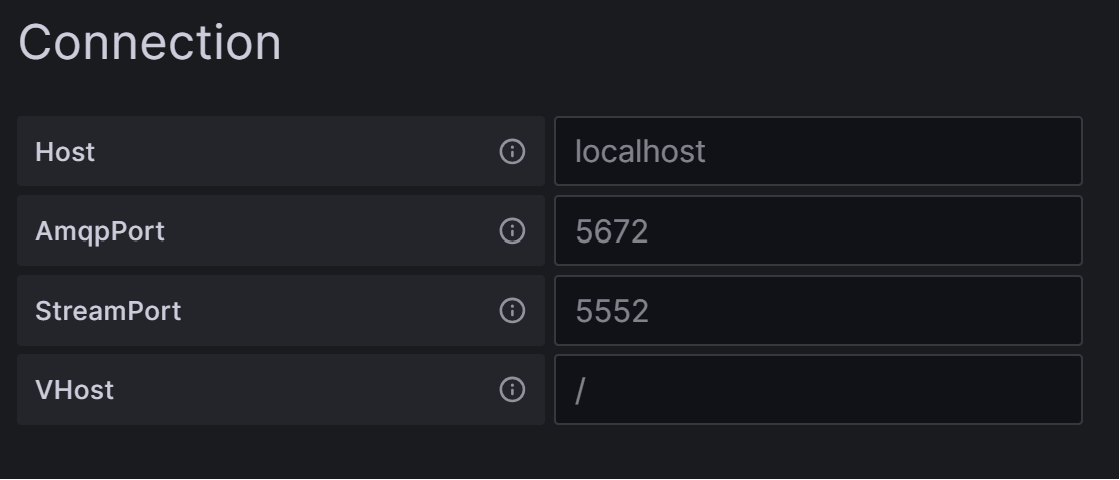
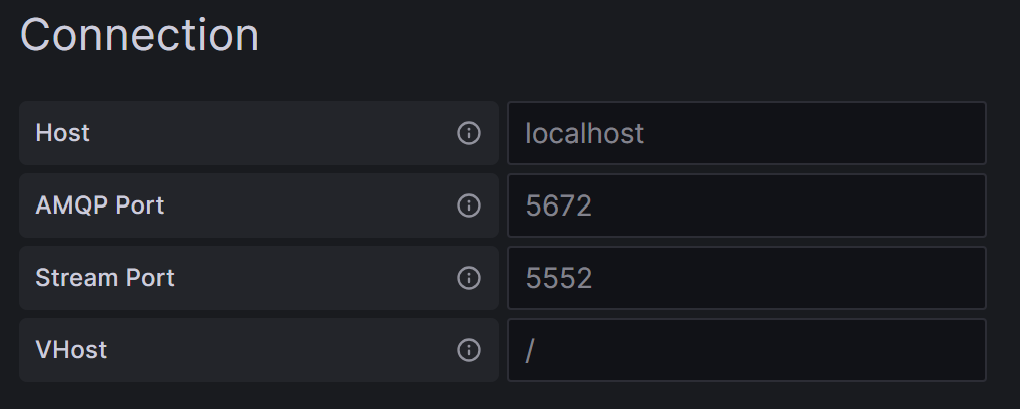
fixing typos in ConfigEditor.tsx and README.md

diff --git a/src/components/ConfigEditor.tsx b/src/components/ConfigEditor.tsx
@@ -145,7 +145,7 @@ export const ConfigEditor = (props: Props) => {
   return (
     <div className="gf-form-group">
       <FieldSet label="Connection">
-        <InlineField label="Host" labelWidth={LABEL_WIDTH} tooltip="Host of the RabbitMQ server">
+        <InlineField label="Host" labelWidth={LABEL_WIDTH} tooltip="Hostname (or the IP) of the RabbitMQ server">
           <Input
             onChange={(event) =>
               onOptionsChange({
@@ -157,7 +157,7 @@ export const ConfigEditor = (props: Props) => {
             width={INPUT_WIDTH}
           />
         </InlineField>
-        <InlineField label="AmqpPort" labelWidth={LABEL_WIDTH} tooltip="The AMQP port of the RabbitMQ server">
+        <InlineField label="AMQP Port" labelWidth={LABEL_WIDTH} tooltip="The AMQP port of the RabbitMQ server">
           <Input
             onChange={(event) =>
               onNumericInputChange(event.currentTarget.value, DEFAULT_AMQP_PORT, (value) =>
@@ -171,7 +171,7 @@ export const ConfigEditor = (props: Props) => {
             width={INPUT_WIDTH}
           />
         </InlineField>
-        <InlineField label="StreamPort" labelWidth={LABEL_WIDTH} tooltip="The stream port of the RabbitMQ server">
+        <InlineField label="Stream Port" labelWidth={LABEL_WIDTH} tooltip="The stream port of the RabbitMQ server">
           <Input
             onChange={(event) =>
               onNumericInputChange(event.currentTarget.value, DEFAULT_STREAM_PORT, (value) =>
@@ -185,7 +185,7 @@ export const ConfigEditor = (props: Props) => {
             width={INPUT_WIDTH}
           />
         </InlineField>
-        <InlineField label="VHost" labelWidth={LABEL_WIDTH} tooltip="The VHost the RabbitMQ server">
+        <InlineField label="VHost" labelWidth={LABEL_WIDTH} tooltip="The virtual host the RabbitMQ server">
           <Input
             onChange={(event) =>
               onOptionsChange({
@@ -199,7 +199,7 @@ export const ConfigEditor = (props: Props) => {
         </InlineField>
       </FieldSet>
       <FieldSet label="Authentication">
-        <InlineField label="TlsConnection" labelWidth={LABEL_WIDTH} tooltip="Should use TLS to connect to the RabbitMQ server">
+        <InlineField label="TLS Connection" labelWidth={LABEL_WIDTH} tooltip="Should use TLS to connect to the RabbitMQ server">
           <InlineSwitch
             onChange={(event) =>
               onOptionsChange({
@@ -271,7 +271,7 @@ export const ConfigEditor = (props: Props) => {
             width={SWITCH_WIDTH}
           />
         </InlineField>
-        <InlineField label="Max Age (in nano-seconds)" labelWidth={LABEL_WIDTH} tooltip="The max age of messages in the stream in nano-seconds (set to 0 to disable the max-age limit)">
+        <InlineField label="Max Age" labelWidth={LABEL_WIDTH} tooltip="The max age of messages in the stream in nano-seconds (set to 0 to disable the max-age limit)">
           <Input
             onChange={(event) =>
               onNumericInputChange(event.currentTarget.value, DEFAULT_STREAM_MAX_AGE, (value) =>
@@ -313,7 +313,7 @@ export const ConfigEditor = (props: Props) => {
             width={INPUT_WIDTH}
           />
         </InlineField>
-        <InlineField label="CRC" labelWidth={LABEL_WIDTH} tooltip="When crc control is disabed, the perfomance is increased">
+        <InlineField label="CRC" labelWidth={LABEL_WIDTH} tooltip="When CRC control is disabled, the perfomance is increased">
           <InlineSwitch
             onChange={(event) =>
               setStreamOptions({

diff --git a/src/README.md b/src/README.md
@@ -15,8 +15,8 @@ If you are not fimiliar with RabbitMQ Stream Plugin, here are some good resource
 ## Getting Started
 ### Reqirements
 
-- RabbitMQ v3.12.10+ with stream plugin enabled (should work on RabbitMQ v3.9+ but never was tested)
-- Grafana v9.4.3+ (should work on Grafana v8.0+ but never was tested)
+- RabbitMQ v3.12.10+ with `rabbitmq_stream` plugin enabled (should work on RabbitMQ v3.9+ but never was tested)
+- Grafana v9.4.3+
 
 > Note: This is a backend plugin, so the Grafana server should've access to the RabbitMQ broker.
 
@@ -49,12 +49,12 @@ Basic connection section to connect the RabbitMQ.
 <img src="../screenshots/new_rabbitmq_datasource/connection_section.png"
  alt="Connection Section" width="400"/>
 
-| Field        | Type     | Is Required  | Default Value  | Description                            |
-|--------------|----------|--------------|----------------|----------------------------------------|
-| `Host`       | `string` | Yes          | `"localhost"`  | Host (or IP) of the RabbitMQ server    |
-| `AmqpPort`   | `int`    | Yes          | `5672`         | The AMQP port of the RabbitMQ server   |
-| `StreamPort` | `int`    | Yes      	 | `5552`         | The stream port of the RabbitMQ server |
-| `VHost`      | `string` | Yes       	 | `"/"`          | The VHost the RabbitMQ server          |
+| Field         | Type     | Is Required  | Default Value  | Description                                 |
+|---------------|----------|--------------|----------------|---------------------------------------------|
+| `Host`        | `string` | Yes          | `"localhost"`  | Hostname (or the IP) of the RabbitMQ server |
+| `AMQP Port`   | `int`    | Yes          | `5672`         | The AMQP port of the RabbitMQ server        |
+| `Stream Port` | `int`    | Yes      	  | `5552`         | The stream port of the RabbitMQ server      |
+| `VHost`       | `string` | Yes       	  | `"/"`          | The virtual host the RabbitMQ server        |
 ---
 
 #### Authentication
@@ -63,11 +63,11 @@ Basic authentication section to connect the RabbitMQ.
 <img src="../screenshots/new_rabbitmq_datasource/authentication_section.png"
  alt="Authentication Section" width="400"/>
 
-| Field           | Type     | Is Required | Default Value | Description                                      |
-|-----------------|----------|-------------|---------------|--------------------------------------------------|
-| `TlsConnection` | `bool`   | Yes         | `false`       | Should use TLS to connect to the RabbitMQ server |
-| `Username`      | `string` | Yes         | `"guest"`     | Username to connect to the RabbitMQ server       |
-| `Password`      | `string` | Yes         | -----         | Password to connect to the RabbitMQ server       |
+| Field            | Type     | Is Required | Default Value | Description                                      |
+|------------------|----------|-------------|---------------|--------------------------------------------------|
+| `TLS Connection` | `bool`   | Yes         | `false`       | Should use TLS to connect to the RabbitMQ server |
+| `Username`       | `string` | Yes         | `"guest"`     | Username to connect to the RabbitMQ server       |
+| `Password`       | `string` | Yes         | -----         | Password to connect to the RabbitMQ server       |
 ---
  
 #### Stream Settings
@@ -77,15 +77,15 @@ RabbitMQ stream and the settings of its consumer.
 <img src="../screenshots/new_rabbitmq_datasource/stream_settings_section.png"
  alt="Stream Settings Section" width="400"/>
 
-| Field                    | Type     | Is Required | Default Value       | Description                                              |
-|--------------------------|----------|-------------|---------------------|----------------------------------------------------------|
-| `Stream Name`            | `string` | Yes         | `""`                | The stream name that will be created                     |
-| `Consumer Name`          | `string` | No          | `""`                | The consumer name that will be created                   |
+| Field                    | Type     | Is Required | Default Value       | Description                                               |
+|--------------------------|----------|-------------|---------------------|-----------------------------------------------------------|
+| `Stream Name`            | `string` | Yes         | `""`                | The stream name that will be created                      |
+| `Consumer Name`          | `string` | No          | `""`                | The consumer name that will be created                    |
 | `Offset from Start`      | `bool`   | Yes         | `true`              | Should the consumer consume messages from the start or the end of the stored messages in the stream |
-| `Max Age`                | `int`    | Yes         | `3,600,000,000,000` | The max age of messages in the stream in nano-seconds    |
-| `Max Length Bytes`       | `int`    | Yes         | `2,000,000,000`     | The max length of messages in bytes in the stream        |
-| `Max Segment Size Bytes` | `int`    | Yes         | `500,000,000`       | The max segment size in bytes in the stream              |
-| `CRC`                    | `bool`   | Yes         | `false`             | When crc control is disabed, the perfomance is increased |
+| `Max Age`                | `int`    | Yes         | `3,600,000,000,000` | The max age of messages in the stream in nano-seconds (set to 0 to disable the max-age limit) |
+| `Max Length Bytes`       | `int`    | Yes         | `2,000,000,000`     | The max length of messages in bytes in the stream (set to 0 to disable the max-length-bytes limit) |
+| `Max Segment Size Bytes` | `int`    | Yes         | `500,000,000`       | The max segment size in bytes in the stream               |
+| `CRC`                    | `bool`   | Yes         | `false`             | When CRC control is disabled, the perfomance is increased |
 ---
 
 #### Exchanges

diff --git a/README.md b/README.md
@@ -15,8 +15,8 @@ If you are not fimiliar with RabbitMQ Stream Plugin, here are some good resource
 ## Getting Started
 ### Reqirements
 
-- RabbitMQ v3.12.10+ with stream plugin enabled (should work on RabbitMQ v3.9+ but never was tested)
-- Grafana v9.4.3+ (should work on Grafana v8.0+ but never was tested)
+- RabbitMQ v3.12.10+ with `rabbitmq_stream` plugin enabled (should work on RabbitMQ v3.9+ but never was tested)
+- Grafana v9.4.3+
 
 > Note: This is a backend plugin, so the Grafana server should've access to the RabbitMQ broker.
 
@@ -49,12 +49,12 @@ Basic connection section to connect the RabbitMQ.
 <img src="./screenshots/new_rabbitmq_datasource/connection_section.png"
  alt="Connection Section" width="400"/>
 
-| Field        | Type     | Is Required  | Default Value  | Description                            |
-|--------------|----------|--------------|----------------|----------------------------------------|
-| `Host`       | `string` | Yes          | `"localhost"`  | Host (or IP) of the RabbitMQ server    |
-| `AmqpPort`   | `int`    | Yes          | `5672`         | The AMQP port of the RabbitMQ server   |
-| `StreamPort` | `int`    | Yes      	 | `5552`         | The stream port of the RabbitMQ server |
-| `VHost`      | `string` | Yes       	 | `"/"`          | The VHost the RabbitMQ server          |
+| Field         | Type     | Is Required  | Default Value  | Description                                 |
+|---------------|----------|--------------|----------------|---------------------------------------------|
+| `Host`        | `string` | Yes          | `"localhost"`  | Hostname (or the IP) of the RabbitMQ server |
+| `AMQP Port`   | `int`    | Yes          | `5672`         | The AMQP port of the RabbitMQ server        |
+| `Stream Port` | `int`    | Yes      	  | `5552`         | The stream port of the RabbitMQ server      |
+| `VHost`       | `string` | Yes       	  | `"/"`          | The virtual host the RabbitMQ server        |
 ---
 
 #### Authentication
@@ -63,11 +63,11 @@ Basic authentication section to connect the RabbitMQ.
 <img src="./screenshots/new_rabbitmq_datasource/authentication_section.png"
  alt="Authentication Section" width="400"/>
 
-| Field           | Type     | Is Required | Default Value | Description                                      |
-|-----------------|----------|-------------|---------------|--------------------------------------------------|
-| `TlsConnection` | `bool`   | Yes         | `false`       | Should use TLS to connect to the RabbitMQ server |
-| `Username`      | `string` | Yes         | `"guest"`     | Username to connect to the RabbitMQ server       |
-| `Password`      | `string` | Yes         | -----         | Password to connect to the RabbitMQ server       |
+| Field            | Type     | Is Required | Default Value | Description                                      |
+|------------------|----------|-------------|---------------|--------------------------------------------------|
+| `TLS Connection` | `bool`   | Yes         | `false`       | Should use TLS to connect to the RabbitMQ server |
+| `Username`       | `string` | Yes         | `"guest"`     | Username to connect to the RabbitMQ server       |
+| `Password`       | `string` | Yes         | -----         | Password to connect to the RabbitMQ server       |
 ---
  
 #### Stream Settings
@@ -77,15 +77,15 @@ RabbitMQ stream and the settings of its consumer.
 <img src="./screenshots/new_rabbitmq_datasource/stream_settings_section.png"
  alt="Stream Settings Section" width="400"/>
 
-| Field                    | Type     | Is Required | Default Value       | Description                                              |
-|--------------------------|----------|-------------|---------------------|----------------------------------------------------------|
-| `Stream Name`            | `string` | Yes         | `""`                | The stream name that will be created                     |
-| `Consumer Name`          | `string` | No          | `""`                | The consumer name that will be created                   |
+| Field                    | Type     | Is Required | Default Value       | Description                                               |
+|--------------------------|----------|-------------|---------------------|-----------------------------------------------------------|
+| `Stream Name`            | `string` | Yes         | `""`                | The stream name that will be created                      |
+| `Consumer Name`          | `string` | No          | `""`                | The consumer name that will be created                    |
 | `Offset from Start`      | `bool`   | Yes         | `true`              | Should the consumer consume messages from the start or the end of the stored messages in the stream |
-| `Max Age`                | `int`    | Yes         | `3,600,000,000,000` | The max age of messages in the stream in nano-seconds    |
-| `Max Length Bytes`       | `int`    | Yes         | `2,000,000,000`     | The max length of messages in bytes in the stream        |
-| `Max Segment Size Bytes` | `int`    | Yes         | `500,000,000`       | The max segment size in bytes in the stream              |
-| `CRC`                    | `bool`   | Yes         | `false`             | When crc control is disabed, the perfomance is increased |
+| `Max Age`                | `int`    | Yes         | `3,600,000,000,000` | The max age of messages in the stream in nano-seconds (set to 0 to disable the max-age limit) |
+| `Max Length Bytes`       | `int`    | Yes         | `2,000,000,000`     | The max length of messages in bytes in the stream (set to 0 to disable the max-length-bytes limit) |
+| `Max Segment Size Bytes` | `int`    | Yes         | `500,000,000`       | The max segment size in bytes in the stream               |
+| `CRC`                    | `bool`   | Yes         | `false`             | When CRC control is disabled, the perfomance is increased |
 ---
 
 #### Exchanges
